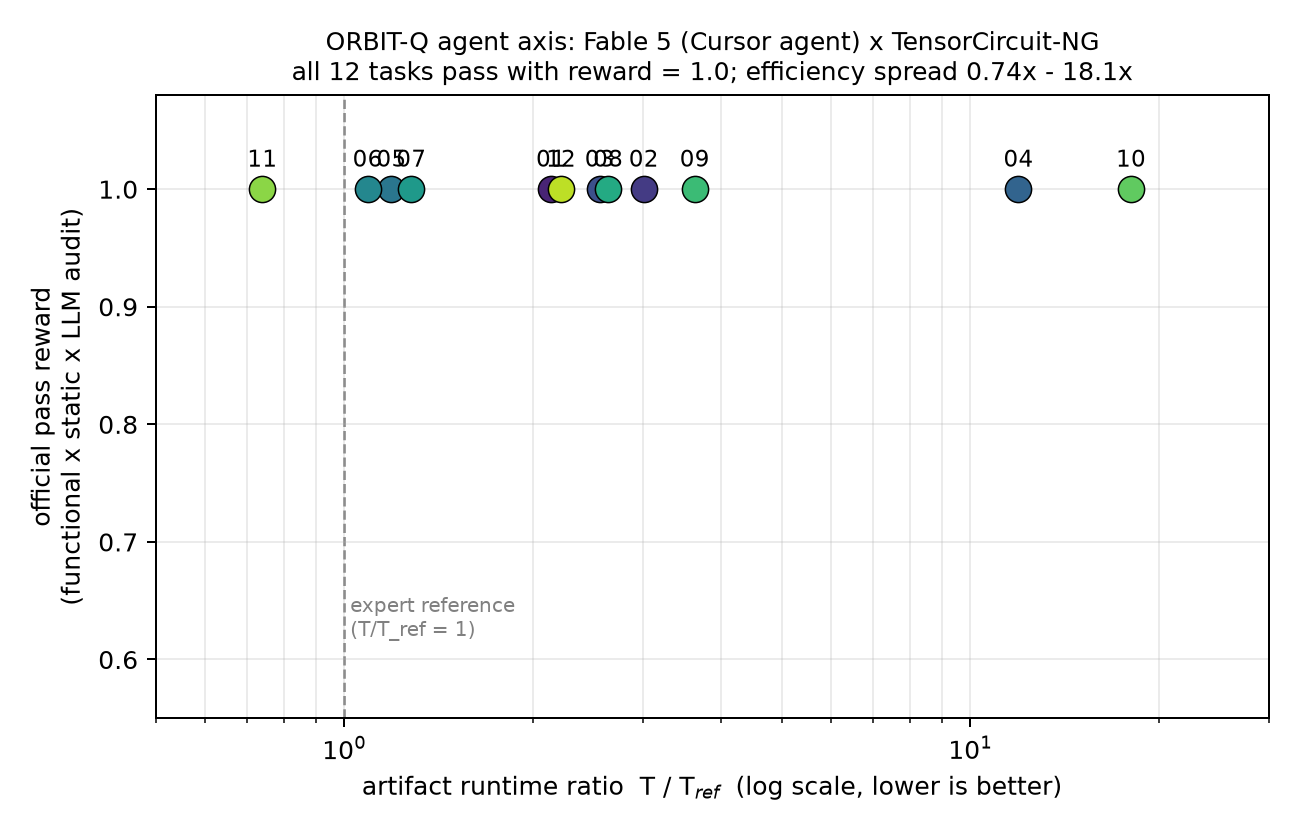
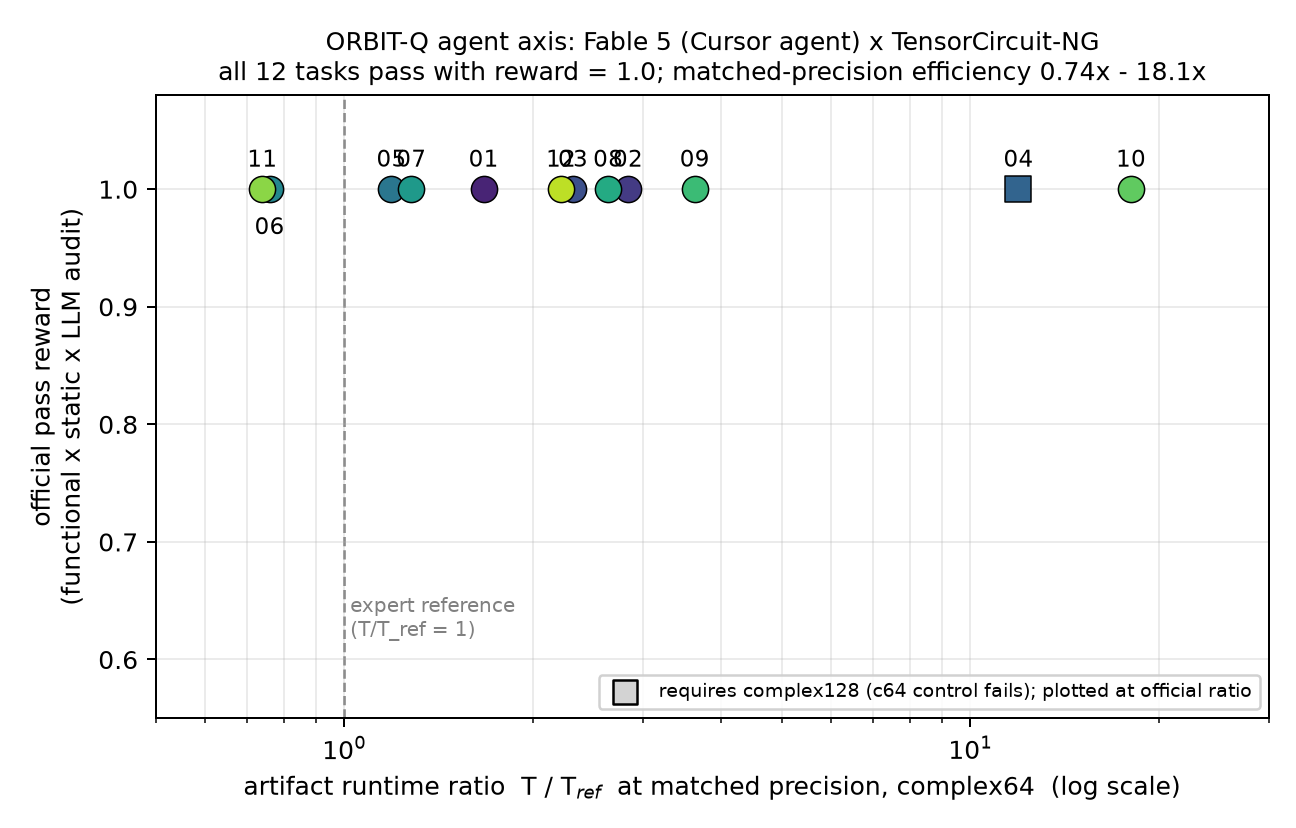
figures: unified matched-precision (complex64) dual-axis scatter; label control diamonds; user-approved push to main

diff --git a/results/fable5/tools/make_figures.py b/results/fable5/tools/make_figures.py
@@ -2,6 +2,11 @@
 
 Reads challenge-NN/reward.json (official stamps) and
 challenge-NN/runtime-comparison.json, writes two figures into figs/.
+The dual-axis scatter uses unified matched-precision (complex64) ratios:
+the publication references all run complex64, so tasks whose official
+candidate ran complex128 are plotted with their complex64-control ratio;
+task 04's control fails functionally, so it is plotted at its official
+(complex128) ratio with a distinct marker.
 Run from the repository root:  python3 results/fable5/tools/make_figures.py
 """
 import json
@@ -16,62 +21,78 @@ ROOT = Path(__file__).resolve().parents[1]
 FIGS = ROOT / "figs"
 FIGS.mkdir(exist_ok=True)
 
-tasks, ratios, rewards, cand_t, ref_t, audits = [], [], [], [], [], []
+tasks, official, matched, needs_c128, rewards, cand_t, ref_t = [], [], [], [], [], [], []
 for nn in range(1, 13):
     d = ROOT / f"challenge-{nn:02d}"
     rc = json.loads((d / "runtime-comparison.json").read_text())
     rw = json.loads((d / "reward.json").read_text())
-    tasks.append(f"{nn:02d}")
     key = "runtime_ratio_candidate_over_reference"
-    ratios.append(rc.get(key) or rc["primary"][key])
+    off = rc.get(key) or rc["primary"][key]
     cand = rc.get("candidate_runtime_sec") or rc["primary"]["candidate_runtime_sec"]
     ref = (rc.get("reference_official") or rc["primary"]["reference_official"])["runtime_sec"]
+    mc = rc.get("matched_precision_control")
+    if mc and mc.get("matched_precision_ratio"):
+        m, req128 = mc["matched_precision_ratio"], False
+    elif mc:  # complex64 control exists but fails functionally
+        m, req128 = off, True
+    else:  # official candidate already complex64 => already matched
+        m, req128 = off, False
+    tasks.append(f"{nn:02d}")
+    official.append(off)
+    matched.append(m)
+    needs_c128.append(req128)
+    rewards.append(rw["reward"])
     cand_t.append(cand)
     ref_t.append(ref)
-    rewards.append(rw["reward"])
-    audits.append(rw["llm_audit_score"])
 
-ratios = np.array(ratios)
+official = np.array(official)
+matched = np.array(matched)
 rewards = np.array(rewards)
 
-# --- Figure 1: dual-axis scatter (validity vs artifact efficiency) ---
+# --- Figure 1: dual-axis scatter, unified matched-precision (complex64) ---
 fig, ax = plt.subplots(figsize=(7.2, 4.6))
 colors = plt.cm.viridis(np.linspace(0.1, 0.9, len(tasks)))
-for x, y, t, c in zip(ratios, rewards, tasks, colors):
-    ax.scatter(x, y, s=110, color=c, edgecolor="black", linewidth=0.6, zorder=3)
-    ax.annotate(t, (x, y), textcoords="offset points", xytext=(0, 9),
+for x, y, t, c, req in zip(matched, rewards, tasks, colors, needs_c128):
+    marker = "s" if req else "o"
+    ax.scatter(x, y, s=110, color=c, marker=marker, edgecolor="black",
+               linewidth=0.6, zorder=3)
+    dy = -18 if t == "06" else 9  # keep the 06/11 labels from colliding
+    ax.annotate(t, (x, y), textcoords="offset points", xytext=(0, dy),
                 ha="center", fontsize=9)
 ax.axvline(1.0, color="gray", linestyle="--", linewidth=1, zorder=1)
 ax.text(1.0, 0.62, " expert reference\n (T/T_ref = 1)", fontsize=8, color="gray")
+ax.scatter([], [], marker="s", s=90, color="lightgray", edgecolor="black",
+           label="requires complex128 (c64 control fails); plotted at official ratio")
+ax.legend(loc="lower right", fontsize=7.5, framealpha=0.9)
 ax.set_xscale("log")
 ax.set_xlim(0.5, 30)
 ax.set_ylim(0.55, 1.08)
-ax.set_xlabel("artifact runtime ratio  T / T$_{ref}$  (log scale, lower is better)")
+ax.set_xlabel("artifact runtime ratio  T / T$_{ref}$  at matched precision, complex64  (log scale)")
 ax.set_ylabel("official pass reward\n(functional x static x LLM audit)")
 ax.set_title("ORBIT-Q agent axis: Fable 5 (Cursor agent) x TensorCircuit-NG\n"
-             "all 12 tasks pass with reward = 1.0; efficiency spread 0.74x - 18.1x",
+             "all 12 tasks pass with reward = 1.0; matched-precision efficiency 0.74x - 18.1x",
              fontsize=10)
 ax.grid(alpha=0.25, which="both")
 fig.tight_layout()
 fig.savefig(FIGS / "fable5_dual_axis_scatter.png", dpi=180)
 
-# --- Figure 2: per-task T/T_ref bars with runtimes ---
+# --- Figure 2: per-task official bars + matched-precision control diamonds ---
 fig, ax = plt.subplots(figsize=(8.4, 4.4))
-bar_colors = ["#2a9d8f" if r <= 1.0 else "#e9c46a" if r <= 4 else "#e76f51" for r in ratios]
-bars = ax.bar(tasks, ratios, color=bar_colors, edgecolor="black", linewidth=0.5)
+bar_colors = ["#2a9d8f" if r <= 1.0 else "#e9c46a" if r <= 4 else "#e76f51" for r in official]
+bars = ax.bar(tasks, official, color=bar_colors, edgecolor="black", linewidth=0.5)
 ax.axhline(1.0, color="gray", linestyle="--", linewidth=1)
-for b, r, ct, rt in zip(bars, ratios, cand_t, ref_t):
+for b, r, ct, rt in zip(bars, official, cand_t, ref_t):
     ax.annotate(f"{r:.2f}\n{ct:.0f}s/{rt:.0f}s", (b.get_x() + b.get_width() / 2, r),
                 textcoords="offset points", xytext=(0, 4), ha="center", fontsize=7.5)
-# matched-precision (complex64) control overlay where the official candidate ran complex128
-for i, nn in enumerate(range(1, 13)):
-    rc = json.loads((ROOT / f"challenge-{nn:02d}" / "runtime-comparison.json").read_text())
-    mc = rc.get("matched_precision_control")
-    if mc and mc.get("matched_precision_ratio"):
-        ax.scatter([i], [mc["matched_precision_ratio"]], marker="D", s=42,
-                   color="white", edgecolor="#264653", linewidth=1.4, zorder=4)
-    elif mc:
-        ax.annotate("c64 fails", (i, 0.47), ha="center", fontsize=8, color="white", fontweight="bold")
+for i, (m, off, req) in enumerate(zip(matched, official, needs_c128)):
+    if req:
+        ax.annotate("c64 fails", (i, 0.47), ha="center", fontsize=8,
+                    color="white", fontweight="bold")
+    elif abs(m - off) > 1e-9:
+        ax.scatter([i], [m], marker="D", s=42, color="white",
+                   edgecolor="#264653", linewidth=1.4, zorder=4)
+        ax.annotate(f"{m:.2f}", (i, m), textcoords="offset points",
+                    xytext=(14, -3), fontsize=7.5, color="#264653", fontweight="bold")
 ax.scatter([], [], marker="D", s=42, color="white", edgecolor="#264653",
            linewidth=1.4, label="complex64 control (matched precision)")
 ax.legend(loc="upper left", fontsize=8, framealpha=0.9)
@@ -86,5 +107,5 @@ fig.tight_layout()
 fig.savefig(FIGS / "fable5_ratio_bars.png", dpi=180)
 
 print("figures written:", sorted(p.name for p in FIGS.iterdir()))
-print("ratios:", dict(zip(tasks, np.round(ratios, 2))))
-print("median ratio:", round(float(np.median(ratios)), 2))
+print("official:", dict(zip(tasks, np.round(official, 2))))
+print("matched :", dict(zip(tasks, np.round(matched, 2))))
